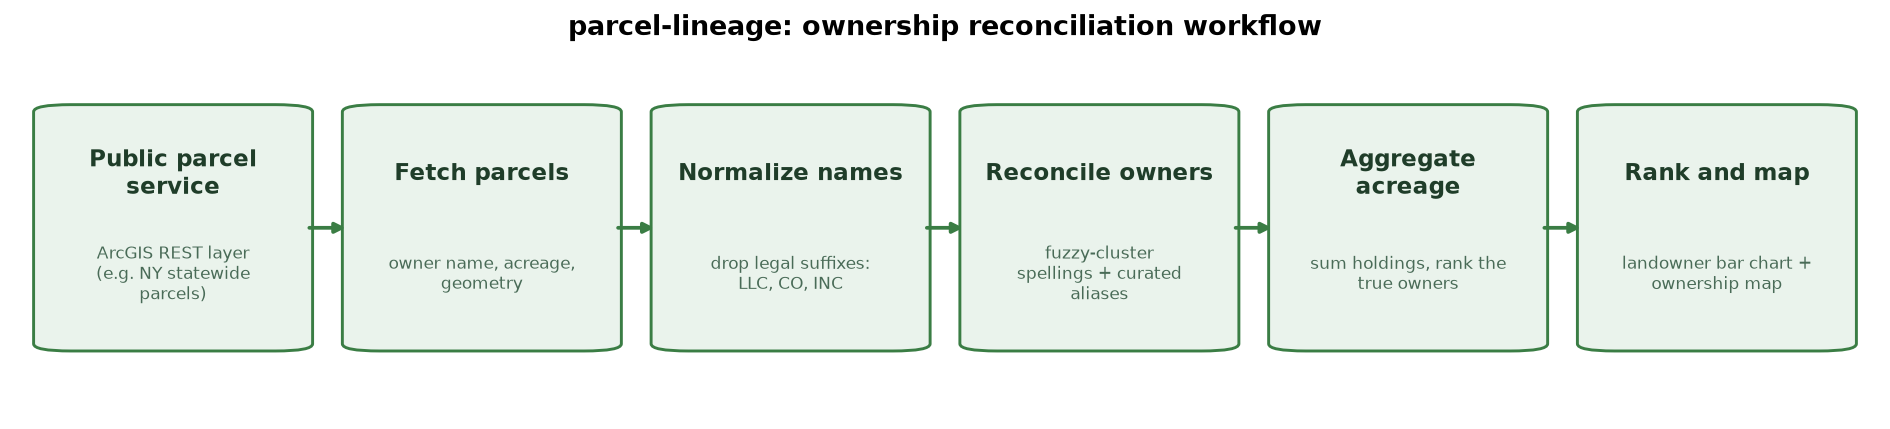
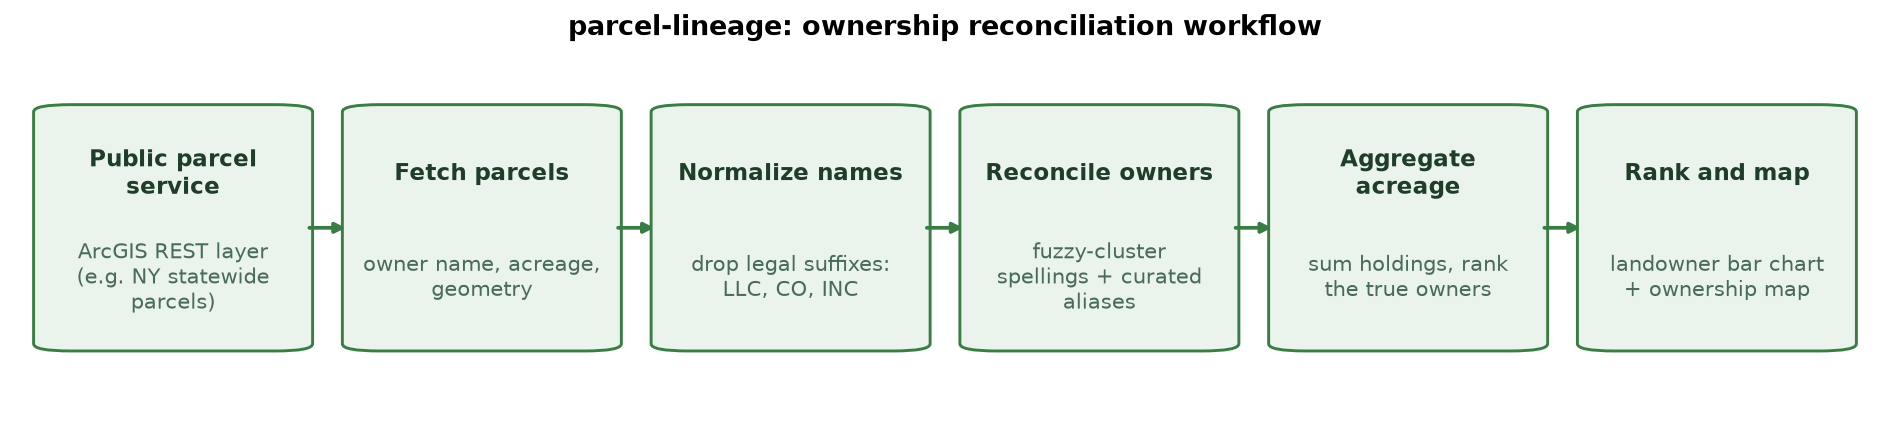
Enlarge workflow flowchart subtitle text

diff --git a/docs/make_flowchart.py b/docs/make_flowchart.py
@@ -45,8 +45,8 @@ def main() -> None:
         ax.text(cx, cy + 0.15, "\n".join(textwrap.wrap(title, 16)),
                 ha="center", va="center", fontsize=11, fontweight="bold",
                 color="#1f3d29")
-        ax.text(cx, cy - 0.13, textwrap.fill(sub, 22),
-                ha="center", va="center", fontsize=8, color="#496b57")
+        ax.text(cx, cy - 0.14, textwrap.fill(sub, 20),
+                ha="center", va="center", fontsize=10, color="#496b57")
         if i < n - 1:
             ax.annotate(
                 "", xy=(centers[i + 1] - box_w / 2, cy), xytext=(cx + box_w / 2, cy),